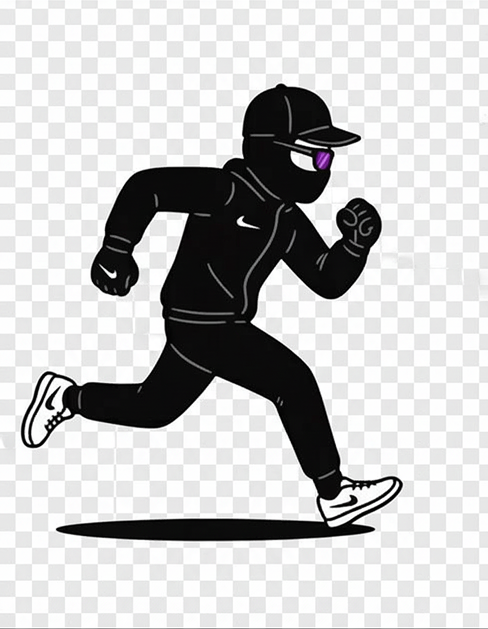
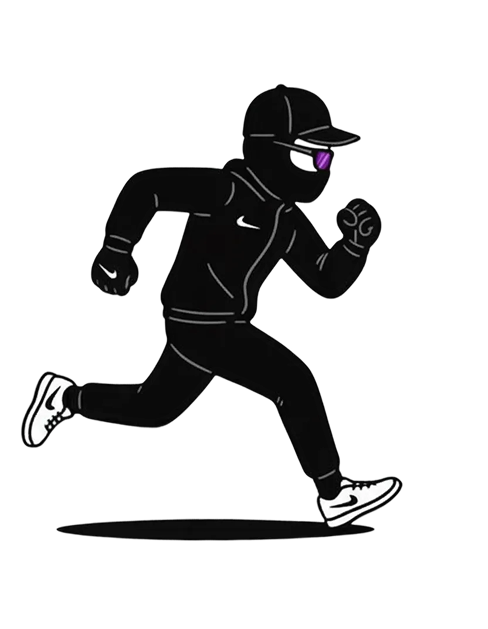
Update AboutPage component: simplify personal description layout and remove running illustration image.

Changed region(s): [[0.0, 0.0, 1.0, 1.0], [0.9836, 0.8458, 1.0, 0.876]]

diff --git a/src/app/about/page.tsx b/src/app/about/page.tsx
@@ -86,22 +86,11 @@ export default function AboutPage() {
           <h2 className="font-serif text-2xl font-semibold tracking-tight">
             Personal
           </h2>
-          <div className="mt-6 flex flex-col gap-6 sm:flex-row sm:items-start sm:gap-8">
-            <p className="mt-0 min-w-0 flex-1 text-muted-foreground leading-relaxed">
-              Outside of product design, I value discipline and long-term
-              thinking. I train for endurance races, follow Formula 1, and
-              experiment with emerging technologies.
-            </p>
-            <figure className="w-full shrink-0 sm:w-72">
-              <Image
-                src="/images/running-illustration.png"
-                alt="Running illustration"
-                width={400}
-                height={400}
-                className="rounded-lg object-contain"
-              />
-            </figure>
-          </div>
+          <p className="mt-4 text-muted-foreground leading-relaxed">
+            Outside of product design, I value discipline and long-term
+            thinking. I train for endurance races, follow Formula 1, and
+            experiment with emerging technologies.
+          </p>
         </Container>
       </Section>
     </>
